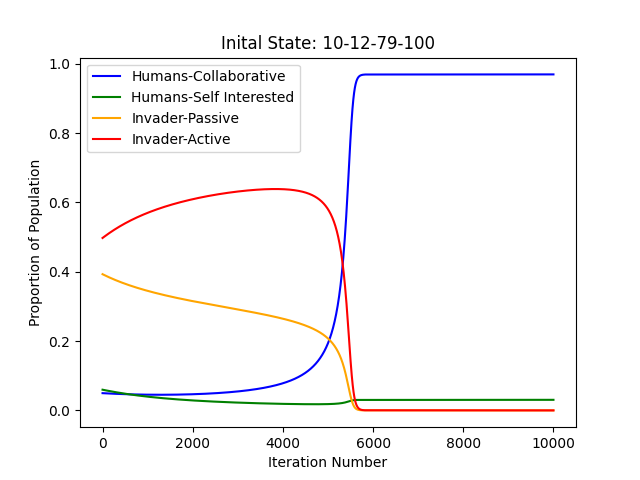
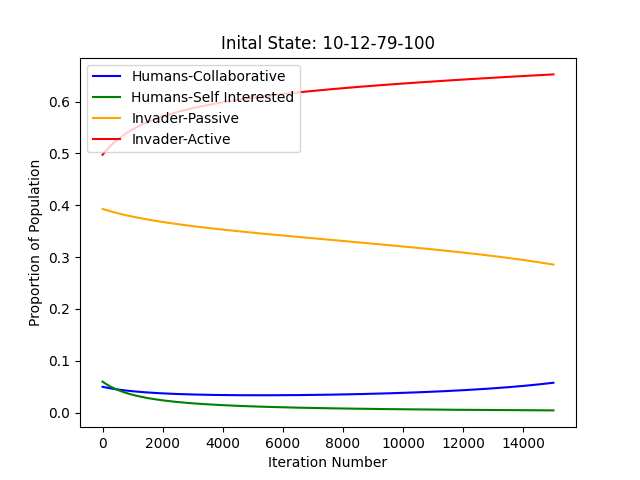
Update game with block parameter

diff --git a/Population-Game.py b/Population-Game.py
@@ -9,22 +9,26 @@ from Classes.InvaderGamePayoffMatrix import InvaderGamePayoffMatrix
 from Classes.PlayerInformation import PlayerInformation
 
 # Human Focused Variables
-VALUE = 15 # Resource gain
-COST = 10 # Cost of Self Interest
+#VALUE = 15 # Resource gain
+#COST = 10 # Cost of Self Interest
+#SYNERGY = 1.5 # Synergy Factor
+
+## Invader Focused Variables
+#DAMAGE = 20 # Damage from Invader
+#ATTACK = 5 # Cost of Attacking from Invader
+
+# Human Focused Variables
+VALUE = 10 # Resource gain
+COST = 15 # Cost of Self Interest
 SYNERGY = 1.5 # Synergy Factor
 
 # Invader Focused Variables
-DAMAGE = 20 # Damage from Invader
-ATTACK = 5 # Cost of Attacking from Invader
-
-# Inital Populaiton Distributions
-HUMAN_COLLABORATE = 1
-HUMAN_SELF_INTERESTED = 3
-INVADER_PASSIVE = 1
-INVADER_ACTIVE = 1
+DAMAGE = 15  # Damage from Invader
+ATTACK = 6 # Cost of Attacking from Invader
+BLOCK = 7 # Blocked Damage
 
 # Simulation Settings 
-NUM_ITERATIONS = 10_000
+NUM_ITERATIONS = 15_000
 DT = .001
 
 
@@ -108,7 +112,7 @@ def main():
        invader_active = iCase["invader_active"]
        
        # Create and initalize game
-       game = InvaderGamePayoffMatrix(VALUE, COST, SYNERGY, DAMAGE, ATTACK)
+       game = InvaderGamePayoffMatrix(VALUE, COST, SYNERGY, DAMAGE, ATTACK, BLOCK)
        population = [human_collaborate, human_self_interested, invader_passive, invader_active]
 
        # Create Storage for Population Distributions

diff --git a/Iterative-Game.py b/Iterative-Game.py
@@ -16,6 +16,7 @@ SYNERGY = 1.5 # Synergy Factor
 # Invader Focused Variables
 DAMAGE = 20 # Damage from Invader
 ATTACK = 5 # Cost of Attacking from Invader
+BLOCK = 2
 
 # Simulation settings  
 ROUNDS = range(10_000)
@@ -82,7 +83,7 @@ for iCase in CASES:
     invader = PlayerInformation(name=f'Invader ({iCase["lr_name"][2]} Learner)', action_set=['p', 'a'], strategy=.9,learning_rate=iCase["lr"][2])
 
     # Create and initalize game
-    game = InvaderGamePayoffMatrix(VALUE, COST, SYNERGY, DAMAGE, ATTACK)
+    game = InvaderGamePayoffMatrix(VALUE, COST, SYNERGY, DAMAGE, ATTACK, BLOCK)
 
     for i_round in ROUNDS:
         game.update_game()

diff --git a/Classes/InvaderGamePayoffMatrix.py b/Classes/InvaderGamePayoffMatrix.py
@@ -2,7 +2,7 @@ import pandas as pd
 from tabulate import tabulate
 
 class InvaderGamePayoffMatrix:
-    def __init__(self, V, C, S, D, A):
+    def __init__(self, V, C, S, D, A, B):
         """
         Initializes a Tripartitite Invader Game 
     
@@ -18,7 +18,7 @@ class InvaderGamePayoffMatrix:
         self.synergy = S
         self.damage = D
         self.attack = A
-        self.block = D/10 #Damaged in a blocked attack
+        self.block = B
         self.time = -1 # Start time at -1 so first update is time = 0
         self.game = {}
 

diff --git a/Game-Matrix-Test.py b/Game-Matrix-Test.py
@@ -1,0 +1,19 @@
+'''
+Module to do quick tests on different game matrix states 
+'''
+from Classes.InvaderGamePayoffMatrix import InvaderGamePayoffMatrix
+
+
+# Human Focused Variables
+VALUE = 10 # Resource gain
+COST = 15 # Cost of Self Interest
+SYNERGY = 1.5 # Synergy Factor
+
+# Invader Focused Variables
+DAMAGE = 15  # Damage from Invader
+ATTACK = 6 # Cost of Attacking from Invader
+BLOCK = 7 # Blocked Damage
+
+game = InvaderGamePayoffMatrix(VALUE, COST, SYNERGY, DAMAGE, ATTACK, BLOCK)
+game.update_game()
+game.print_gamestate()
